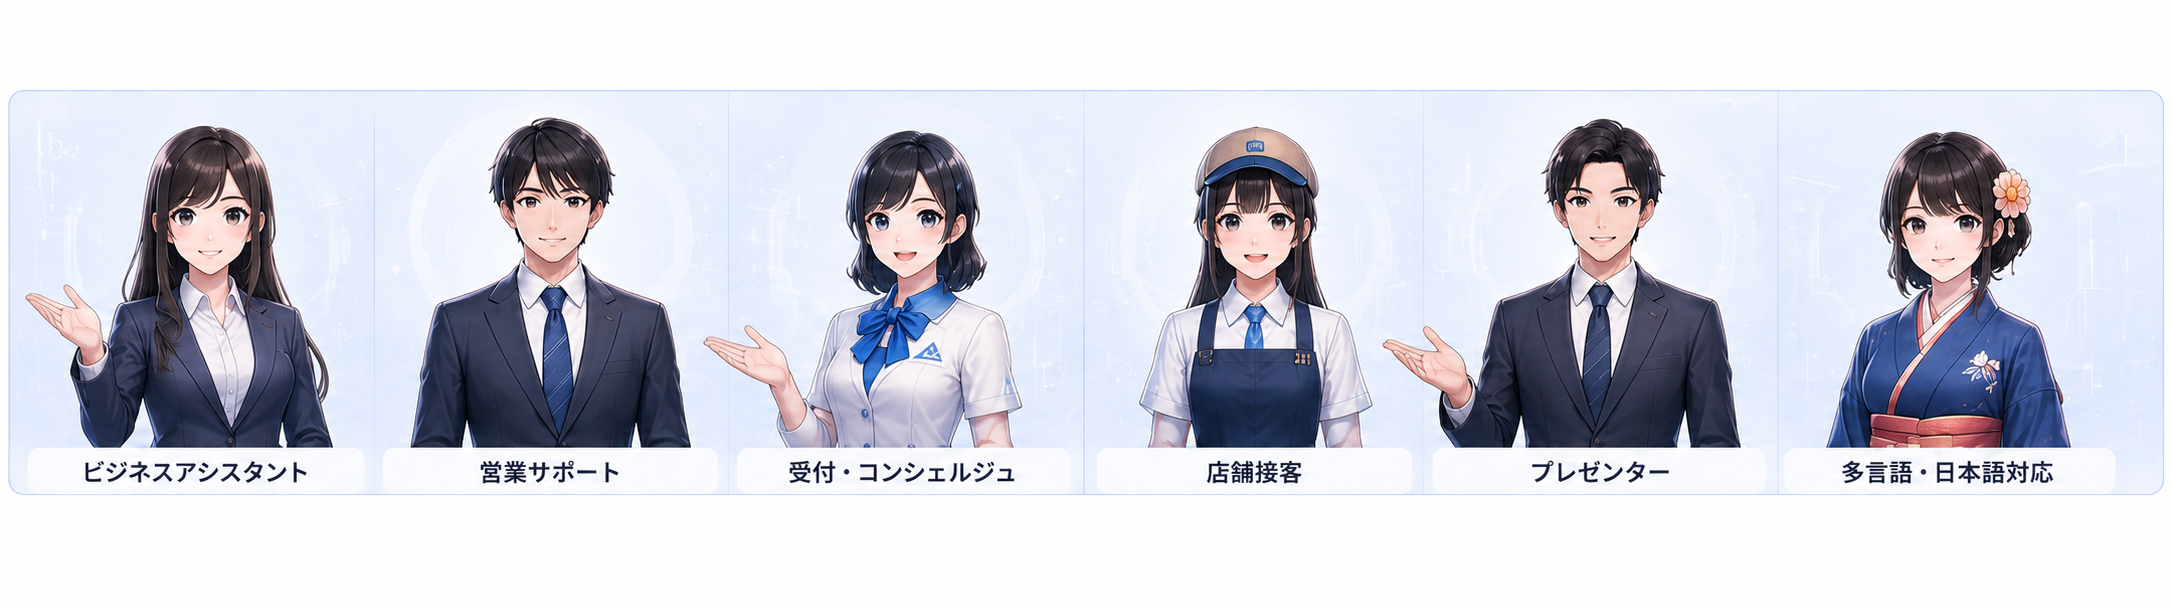
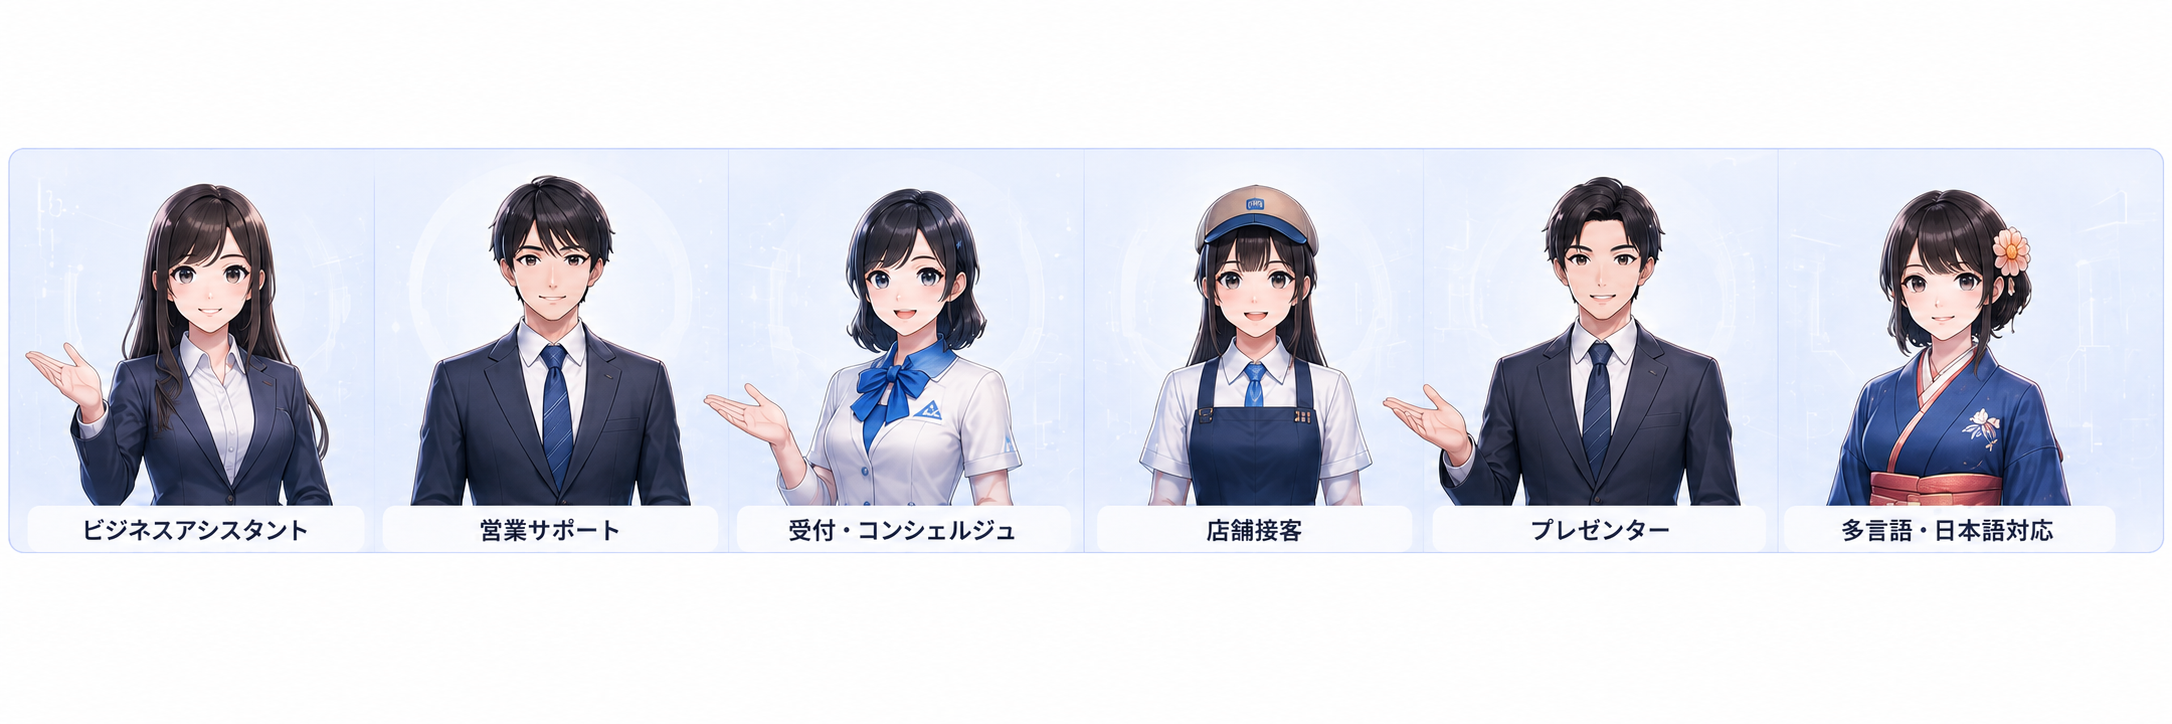
Make use-cases section white so character image blends (no white box)

diff --git a/index.html b/index.html
@@ -113,7 +113,7 @@
   </section>
 
   <!-- Use Cases : 2 panels x 4 = 8 できること -->
-  <section class="py-24 px-6 bg-[#FAFAFA] border-t border-gray-100 font-rounded">
+  <section class="py-24 px-6 bg-white border-t border-gray-100 font-rounded">
     <div class="max-w-5xl mx-auto">
       <div class="text-center mb-12">
         <h2 class="text-3xl font-bold tracking-tight mb-4">Use Cases</h2>